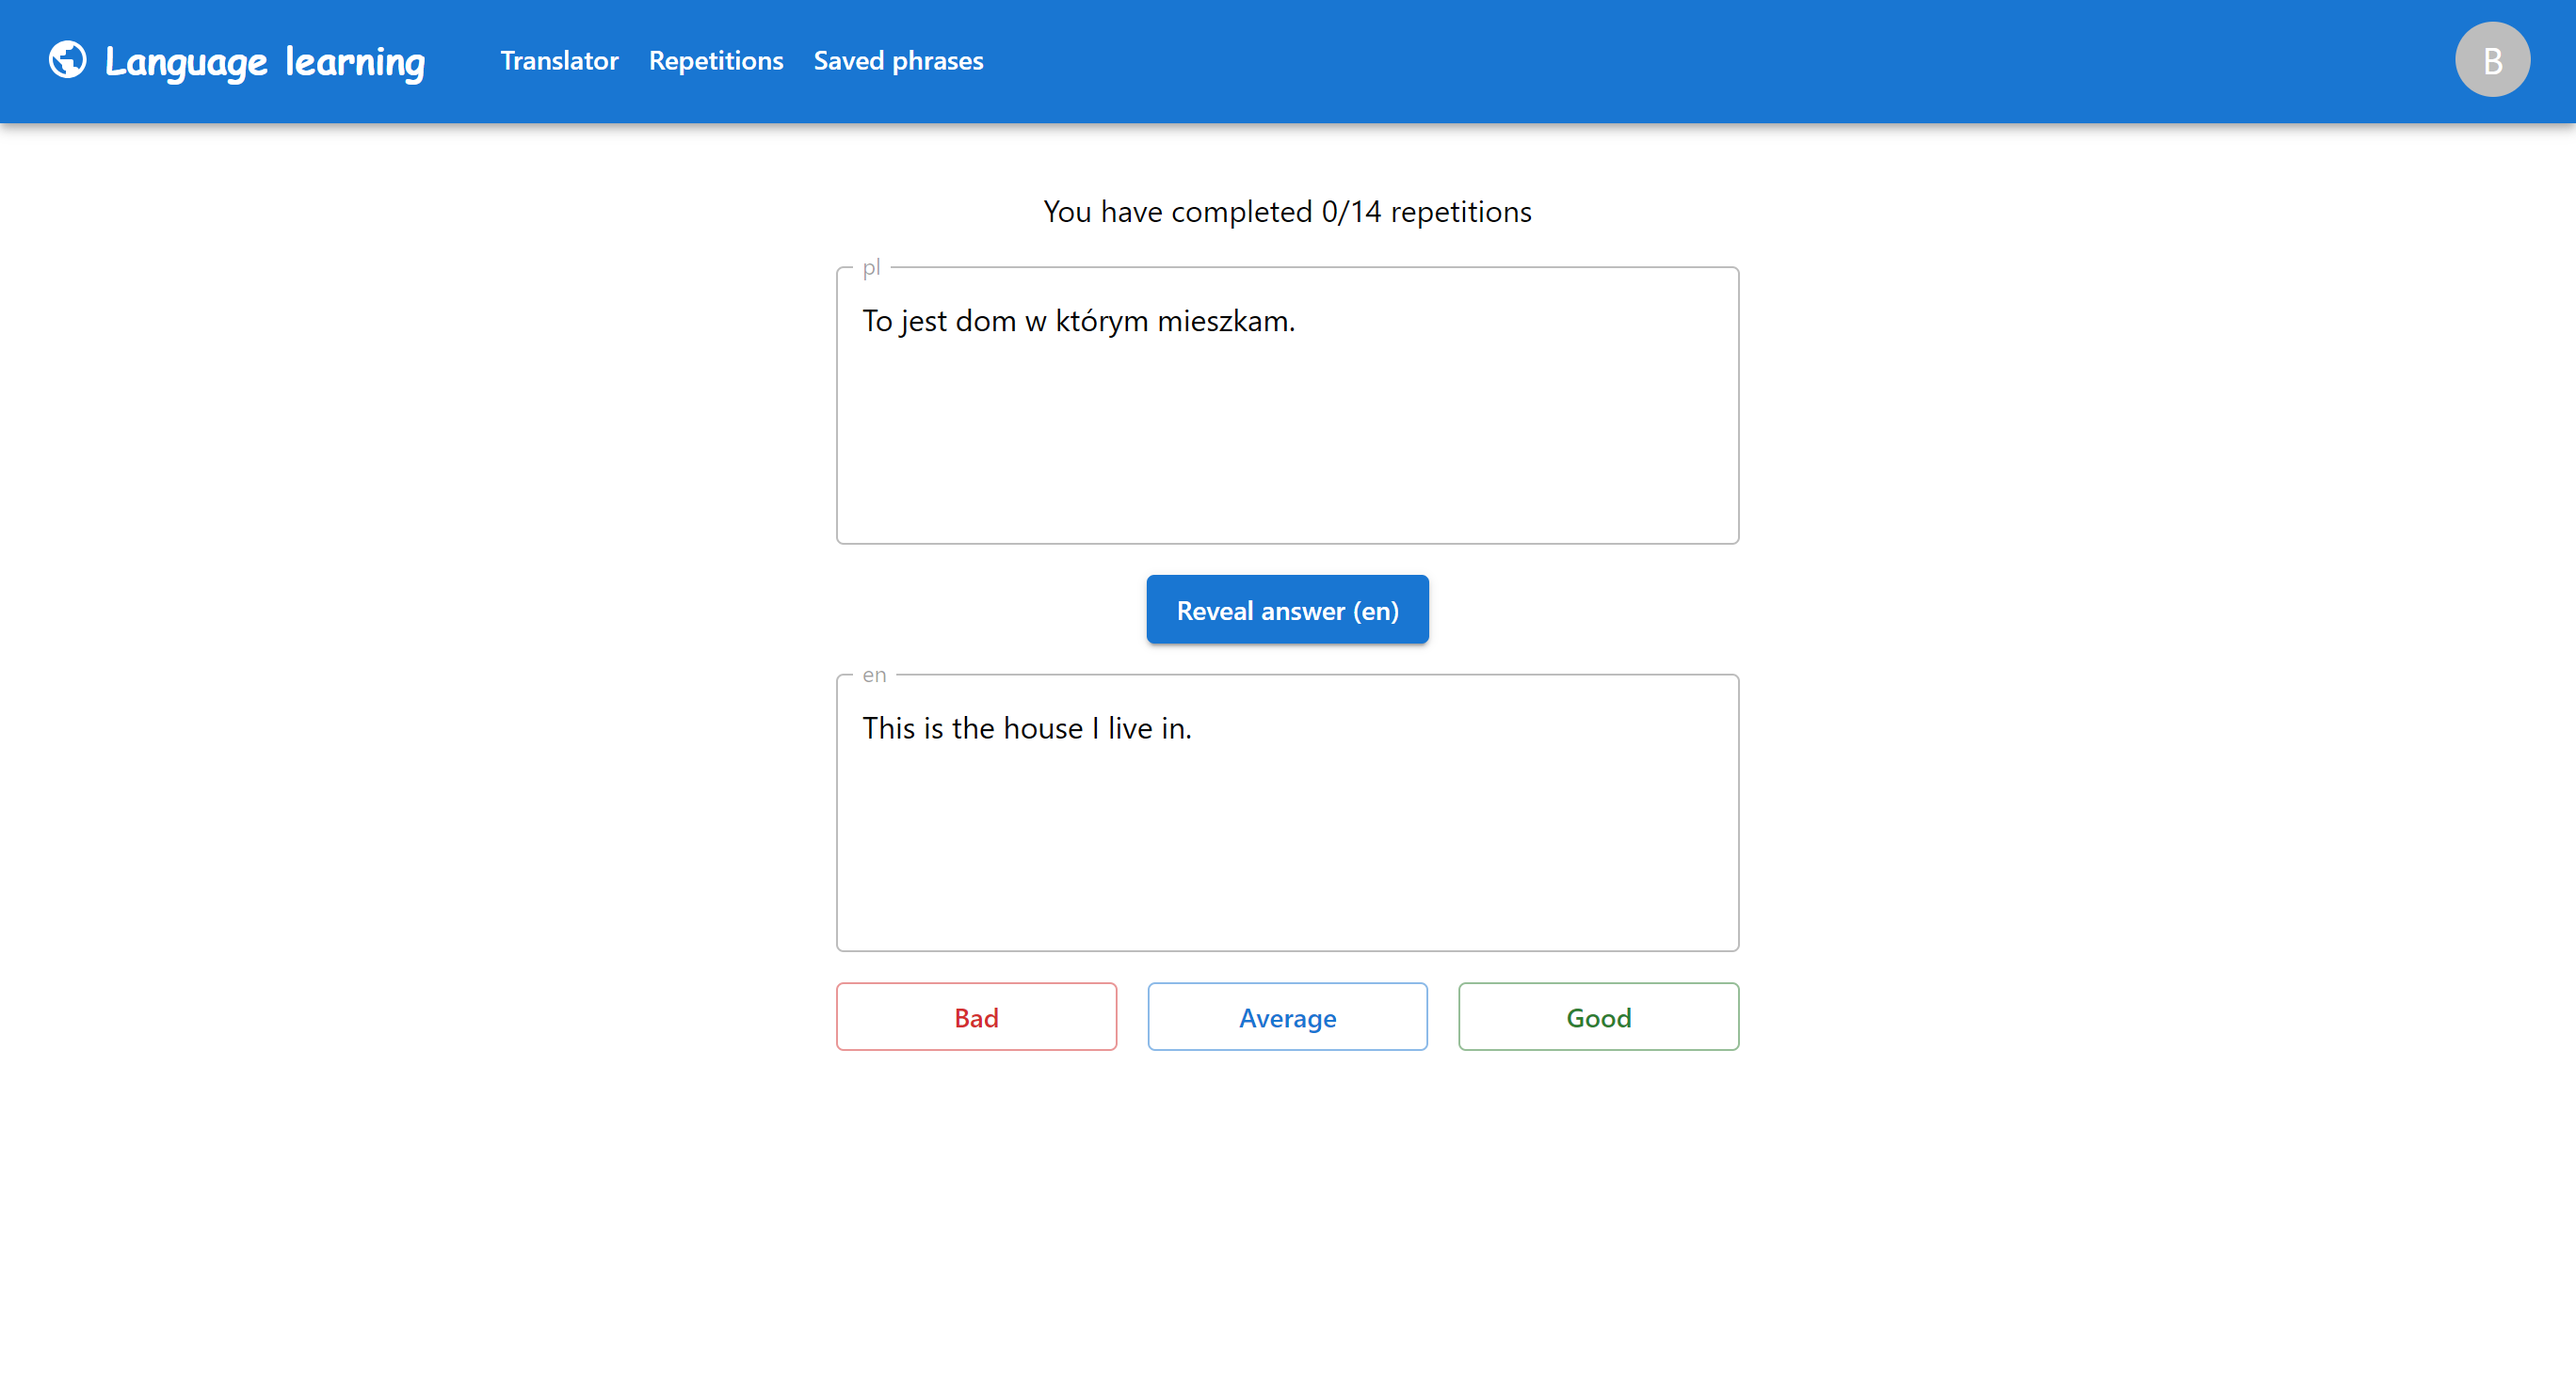
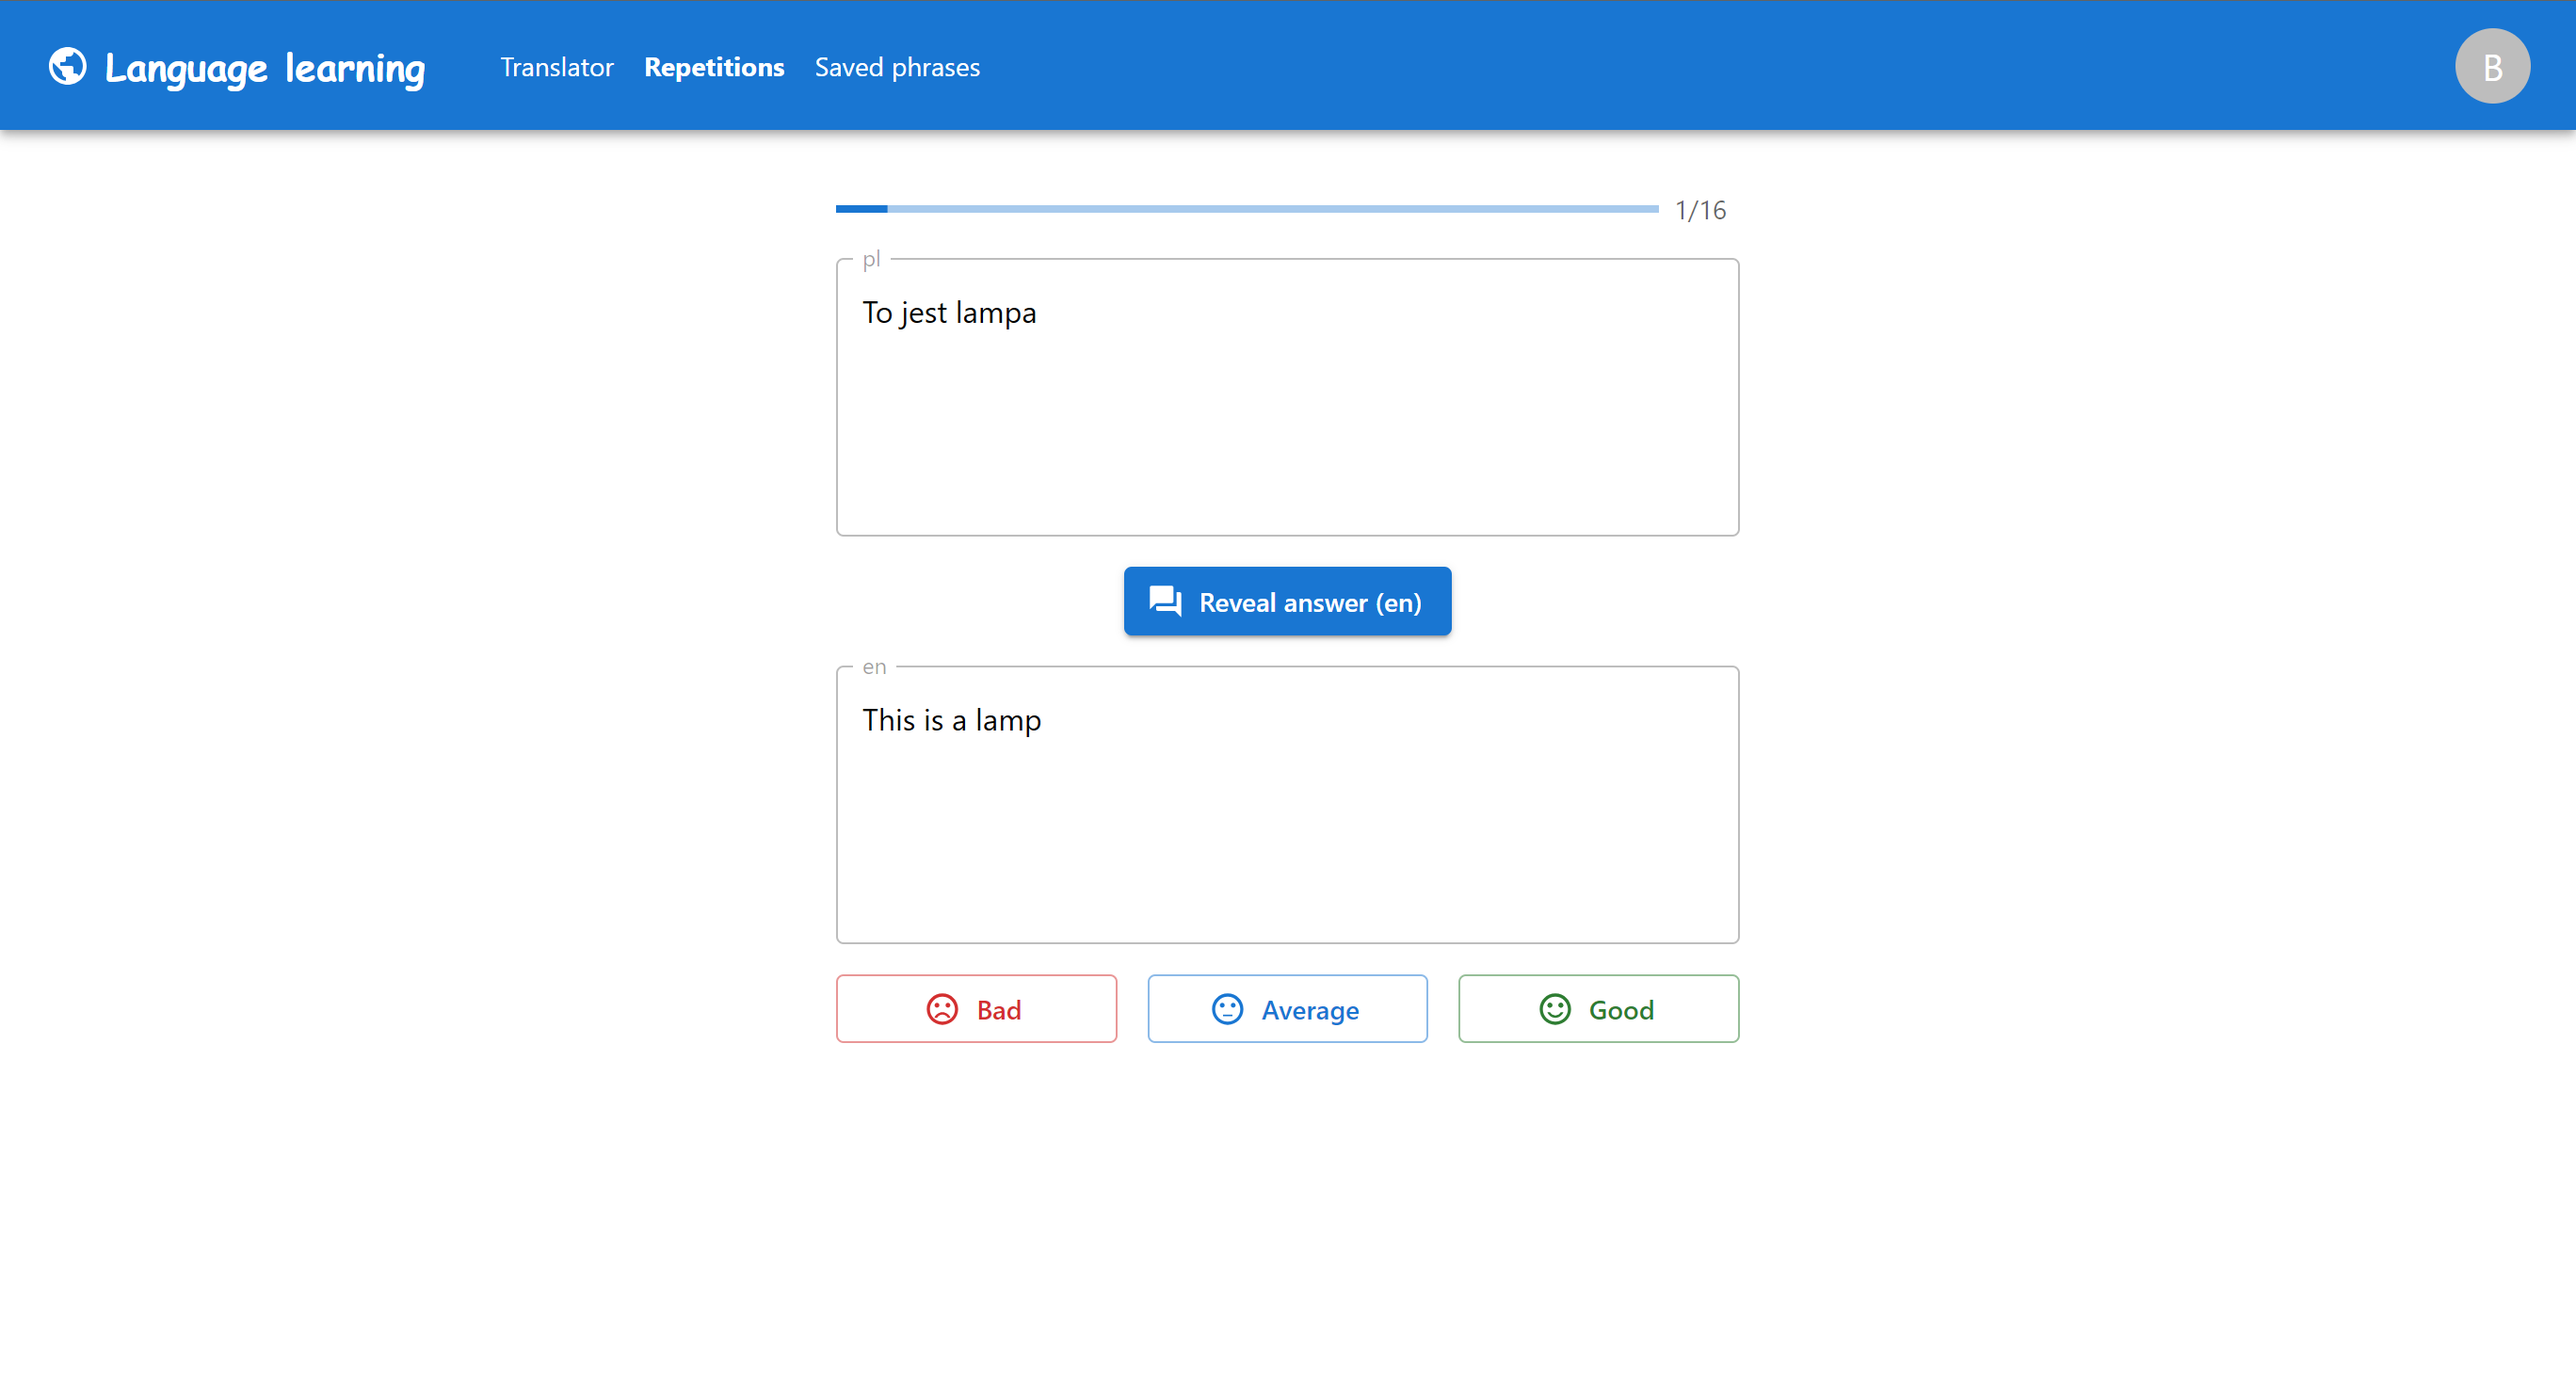
[WEB] Improve design of repetition page and show selected element in appbar (#45)
* Improve design of repetition page and show selected element in appbar

* Update image

diff --git a/web/src/components/AppBar/index.tsx b/web/src/components/AppBar/index.tsx
@@ -1,4 +1,4 @@
-import React, { useContext, useMemo } from 'react';
+import React, { useContext, useMemo, useState } from 'react';
 import { useNavigate } from 'react-router-dom';
 import { useTranslation } from 'react-i18next';
 import AppBar from '@mui/material/AppBar';
@@ -10,20 +10,32 @@ import Menu from '@mui/material/Menu';
 import MenuIcon from '@mui/icons-material/Menu';
 import Container from '@mui/material/Container';
 import Avatar from '@mui/material/Avatar';
-import Button from '@mui/material/Button';
 import MenuItem from '@mui/material/MenuItem';
 import PublicIcon from '@mui/icons-material/Public';
 
 import { AccountContext } from '../../utils/users/Account';
+import { AppBarButton } from './components/AppBarButton';
 
 const ResponsiveAppBar = (): JSX.Element => {
-  const [anchorElNav, setAnchorElNav] = React.useState<null | HTMLElement>(null);
-  const [anchorElUser, setAnchorElUser] = React.useState<null | HTMLElement>(null);
+  const [anchorElNav, setAnchorElNav] = useState<null | HTMLElement>(null);
+  const [anchorElUser, setAnchorElUser] = useState<null | HTMLElement>(null);
 
   const navigate = useNavigate();
   const { t } = useTranslation('translation', { keyPrefix: 'components.appBar' });
   const { getSession, logout } = useContext(AccountContext);
   const userEmail = useMemo(() => getSession()?.idToken.payload.email, []);
+
+  const menuItemsOptions = [
+    { key: 'translator', navigate: '/translator', label: t('translator') },
+    {
+      key: 'repetitions',
+      navigate: '/startRepetitions',
+      label: t('repetitions'),
+    },
+    { key: 'phrases', navigate: '/phrases', label: t('phrases') },
+  ];
+
+  const [selectedMenuItemKey, setSelectedMenuItemKey] = useState('translator');
 
   const handleOpenNavMenu = (event: React.MouseEvent<HTMLElement>): void => {
     setAnchorElNav(event.currentTarget);
@@ -98,33 +110,17 @@ const ResponsiveAppBar = (): JSX.Element => {
                 display: { xs: 'block', md: 'none' },
               }}
             >
-              <MenuItem
-                key="translator"
-                onClick={e => {
-                  e.preventDefault();
-                  navigate('/translator');
-                }}
-              >
-                <Typography textAlign="center">{t('translator')}</Typography>
-              </MenuItem>
-              <MenuItem
-                key="repetitions"
-                onClick={e => {
-                  e.preventDefault();
-                  navigate('/startRepetitions');
-                }}
-              >
-                <Typography textAlign="center">{t('repetitions')}</Typography>
-              </MenuItem>
-              <MenuItem
-                key="phrases"
-                onClick={e => {
-                  e.preventDefault();
-                  navigate('/phrases');
-                }}
-              >
-                <Typography textAlign="center">{t('phrases')}</Typography>
-              </MenuItem>
+              {menuItemsOptions.map(item => (
+                <MenuItem
+                  key={item.key}
+                  onClick={e => {
+                    e.preventDefault();
+                    navigate(item.navigate);
+                  }}
+                >
+                  <Typography textAlign="center">{item.label}</Typography>
+                </MenuItem>
+              ))}
             </Menu>
           </Box>
           <PublicIcon sx={{ display: { xs: 'flex', md: 'none' }, mr: 1 }} />
@@ -146,36 +142,18 @@ const ResponsiveAppBar = (): JSX.Element => {
             {t('title')}
           </Typography>
           <Box sx={{ flexGrow: 1, display: { xs: 'none', md: 'flex' } }}>
-            <Button
-              key="translator"
-              onClick={e => {
-                e.preventDefault();
-                navigate('/translator');
-              }}
-              sx={{ my: 2, color: 'white', display: 'block' }}
-            >
-              {t('translator')}
-            </Button>
-            <Button
-              key="repetitions"
-              onClick={e => {
-                e.preventDefault();
-                navigate('/startRepetitions');
-              }}
-              sx={{ my: 2, color: 'white', display: 'block' }}
-            >
-              {t('repetitions')}
-            </Button>
-            <Button
-              key="phrases"
-              onClick={e => {
-                e.preventDefault();
-                navigate('/phrases');
-              }}
-              sx={{ my: 2, color: 'white', display: 'block' }}
-            >
-              {t('phrases')}
-            </Button>
+            {menuItemsOptions.map(item => (
+              <AppBarButton
+                key={item.key}
+                onClick={e => {
+                  e.preventDefault();
+                  navigate(item.navigate);
+                  setSelectedMenuItemKey(item.key);
+                }}
+                label={item.label}
+                selected={item.key === selectedMenuItemKey}
+              />
+            ))}
           </Box>
 
           <Box sx={{ flexGrow: 0 }}>

diff --git a/web/src/pages/Repetitions/index.tsx b/web/src/pages/Repetitions/index.tsx
@@ -4,12 +4,17 @@ import { useTranslation } from 'react-i18next';
 import { useNavigate } from 'react-router-dom';
 import { useMutation, useQueryClient } from '@tanstack/react-query';
 import { Helmet } from 'react-helmet-async';
-import { Button, Stack, TextField, Typography } from '@mui/material';
+import { Box, Button, Stack, TextField } from '@mui/material';
+import SentimentNeutralIcon from '@mui/icons-material/SentimentNeutral';
+import SentimentSatisfiedAltIcon from '@mui/icons-material/SentimentSatisfiedAlt';
+import SentimentVeryDissatisfiedIcon from '@mui/icons-material/SentimentVeryDissatisfied';
+import QuestionAnswerIcon from '@mui/icons-material/QuestionAnswer';
 
 import { type GetRepetitionsResponseElement } from '../../api/responses/getRepetitionsResponseElement';
 import { RepetitionsPageWrapper } from './styled';
 import { RepetitionResult } from '../../api/requests/updateRepetitionRequest';
 import Api from '../../api/api';
+import { LinearProgressWithLabel } from '../../components/LinearProgressWithLabel';
 
 type RepetitionWithResult = GetRepetitionsResponseElement & { repetitionResult?: RepetitionResult };
 
@@ -68,12 +73,12 @@ export const Repetitions = (): JSX.Element => {
         <meta name="description" content={`${t('pageDescription')}`} />
       </Helmet>
       <RepetitionsPageWrapper $variant="narrow">
-        <Typography variant="subtitle1">
-          {t('completedRepetitionsInformation', {
-            completedRepetitions: completedRepetitionsCounter,
-            allRepetitions: state.repetitions.length,
-          })}
-        </Typography>
+        <Box sx={{ width: '100%' }}>
+          <LinearProgressWithLabel
+            value={(completedRepetitionsCounter / state.repetitions.length) * 100}
+            label={`${completedRepetitionsCounter}/${state.repetitions.length as number}`}
+          />
+        </Box>
         <TextField
           multiline
           rows={5}
@@ -88,6 +93,7 @@ export const Repetitions = (): JSX.Element => {
             e.preventDefault();
             setAnswerRevealed(true);
           }}
+          startIcon={<QuestionAnswerIcon />}
         >
           {t('revealAnswer', { targetLanguage: currentRepetition.targetLanguage })}
         </Button>
@@ -102,13 +108,27 @@ export const Repetitions = (): JSX.Element => {
               disabled
             />
             <Stack direction="row" spacing={2}>
-              <Button variant="outlined" onClick={e => handleResultClick(e, RepetitionResult.failure)} color="error">
+              <Button
+                variant="outlined"
+                onClick={e => handleResultClick(e, RepetitionResult.failure)}
+                color="error"
+                startIcon={<SentimentVeryDissatisfiedIcon />}
+              >
                 {t('bad')}
               </Button>
-              <Button variant="outlined" onClick={e => handleResultClick(e, RepetitionResult.partialSuccess)}>
+              <Button
+                variant="outlined"
+                onClick={e => handleResultClick(e, RepetitionResult.partialSuccess)}
+                startIcon={<SentimentNeutralIcon />}
+              >
                 {t('average')}
               </Button>
-              <Button variant="outlined" onClick={e => handleResultClick(e, RepetitionResult.success)} color="success">
+              <Button
+                variant="outlined"
+                onClick={e => handleResultClick(e, RepetitionResult.success)}
+                color="success"
+                startIcon={<SentimentSatisfiedAltIcon />}
+              >
                 {t('good')}
               </Button>
             </Stack>

diff --git a/web/src/components/LinearProgressWithLabel/index.tsx b/web/src/components/LinearProgressWithLabel/index.tsx
@@ -1,0 +1,22 @@
+import React from 'react';
+import { Box, LinearProgress, type LinearProgressProps, Typography } from '@mui/material';
+
+interface Props extends LinearProgressProps {
+  value: number;
+  label?: string;
+}
+
+export const LinearProgressWithLabel = ({ value, label, ...props }: Props): JSX.Element => {
+  return (
+    <Box sx={{ display: 'flex', alignItems: 'center' }}>
+      <Box sx={{ width: '100%', mr: 1 }}>
+        <LinearProgress variant="determinate" value={value} {...props} />
+      </Box>
+      <Box sx={{ minWidth: 35 }}>
+        <Typography variant="body2" color="text.secondary">
+          {label ?? `${Math.round(value)}%`}
+        </Typography>
+      </Box>
+    </Box>
+  );
+};

diff --git a/web/src/components/AppBar/components/AppBarButton.tsx b/web/src/components/AppBar/components/AppBarButton.tsx
@@ -1,0 +1,21 @@
+import React from 'react';
+import { Button, type ButtonProps } from '@mui/material';
+
+interface Props extends ButtonProps {
+  key: string;
+  label: string;
+  selected: boolean;
+}
+
+export const AppBarButton = ({ key, label, selected, ...props }: Props): JSX.Element => {
+  return (
+    <Button
+      key={key}
+      sx={{ my: 2, color: 'white', display: 'block' }}
+      style={{ fontWeight: selected ? 'bold' : 'normal' }}
+      {...props}
+    >
+      {label}
+    </Button>
+  );
+};
